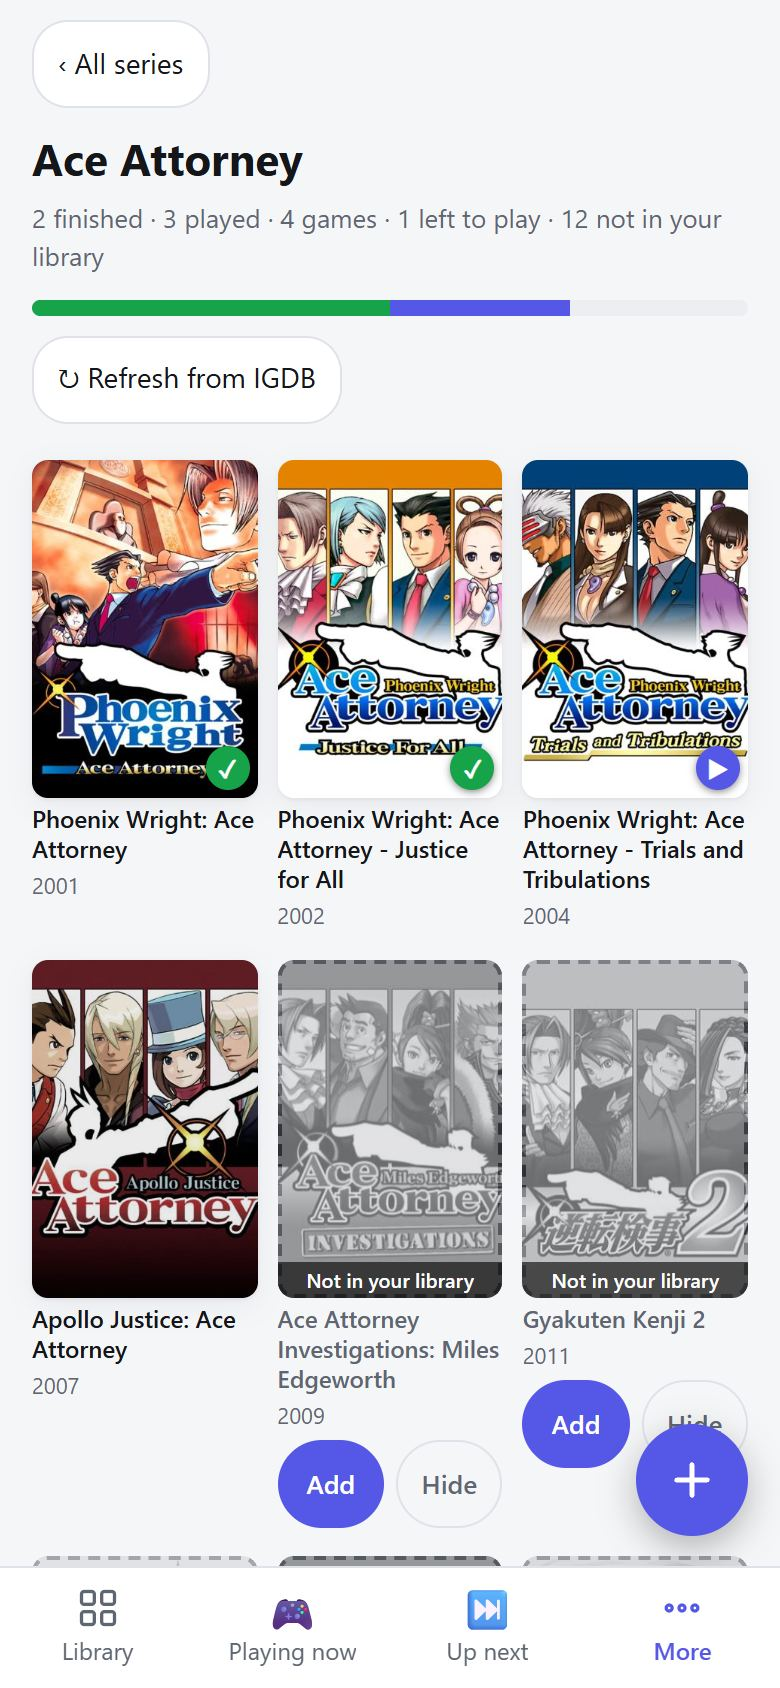
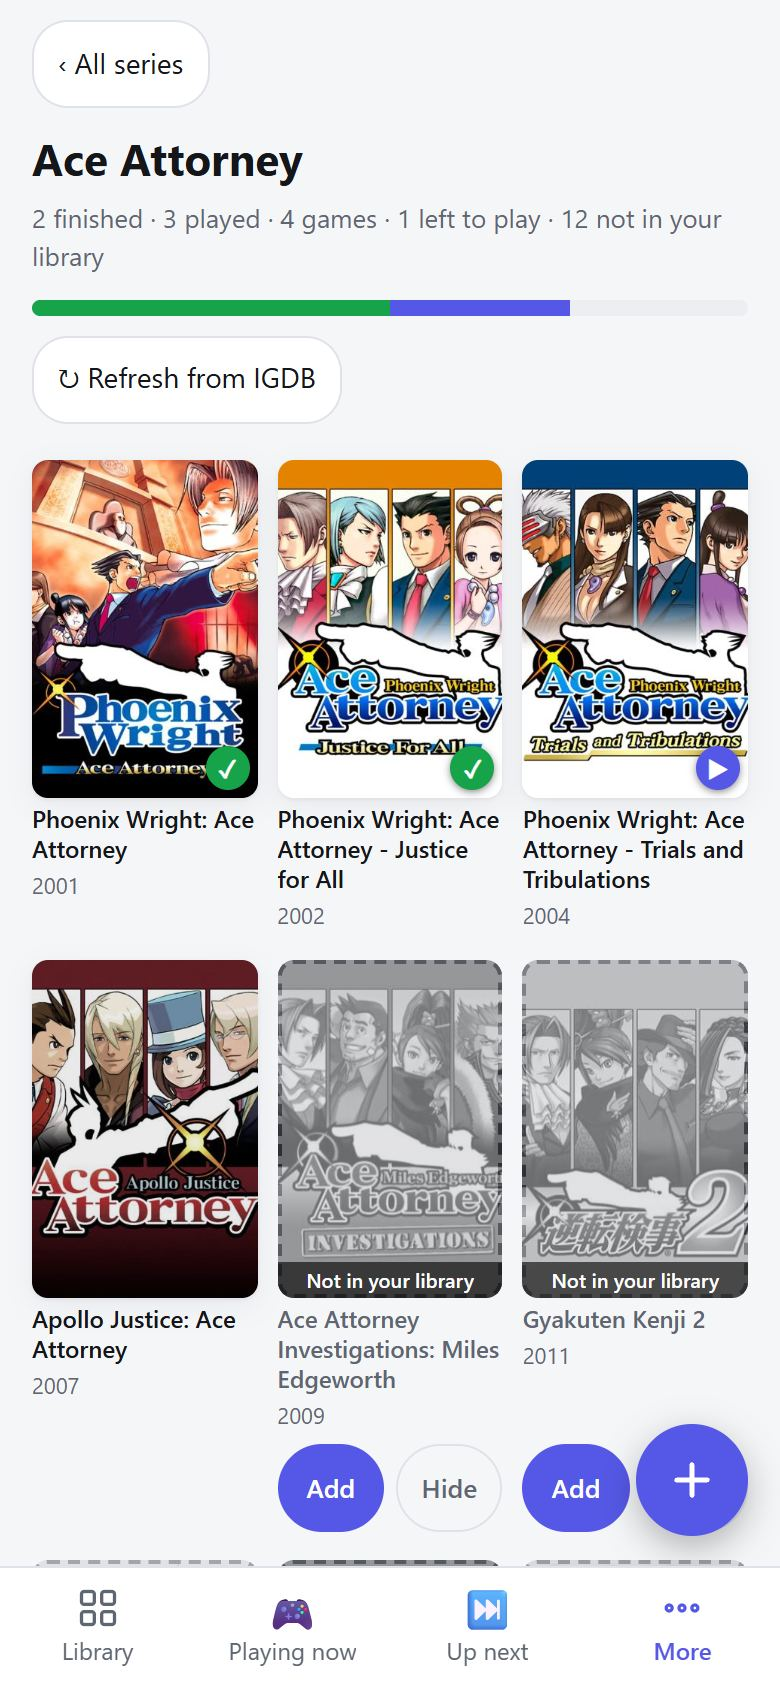
Series page: fix posters, fan and shelf layout
Portrait poster or whole (letterboxed) wide cover instead of a crop, a fan that fits the tile for 1-4 posters and prefers real posters, tighter tiles, Add/Hide pinned to the cell bottom, room for the + button. sw.js v49.

diff --git a/web/static/styles.css b/web/static/styles.css
@@ -567,7 +567,7 @@ table.wait .num { text-align: right; font-variant-numeric: tabular-nums; }
 .oldest small { color: var(--muted); font-size: 12px; }
 .sr-only { position: absolute; width: 1px; height: 1px; overflow: hidden; clip: rect(0 0 0 0); white-space: nowrap; }
 /* ---- series page: tiles with a fan of posters, and a series opened as a poster shelf ---- */
-.series-page { max-width: 1100px; }
+.series-page { max-width: 1100px; padding-bottom: calc(96px + env(safe-area-inset-bottom)); } /* clear of the + button */
 .stitle { font-weight: 600; overflow-wrap: anywhere; }
 .sbar { display: flex; height: 8px; border-radius: 4px; background: var(--surface-2); overflow: hidden; }
 .sbar .fin { background: #16a34a; }
@@ -575,15 +575,21 @@ table.wait .num { text-align: right; font-variant-numeric: tabular-nums; }
 .tiles { display: grid; grid-template-columns: repeat(2, minmax(0, 1fr)); gap: 12px; }
 @media (min-width: 600px) { .tiles { grid-template-columns: repeat(3, minmax(0, 1fr)); } }
 @media (min-width: 900px) { .tiles { grid-template-columns: repeat(4, minmax(0, 1fr)); } }
-.tile { display: flex; flex-direction: column; gap: 6px; min-height: 44px; padding: 12px; color: inherit; text-decoration: none; background: var(--surface); border: 1px solid var(--border); border-radius: var(--radius); }
+.tile { display: flex; flex-direction: column; gap: 6px; min-height: 44px; padding: 8px 10px 10px; color: inherit; text-decoration: none; background: var(--surface); border: 1px solid var(--border); border-radius: var(--radius); }
 .tile:hover { border-color: var(--accent); }
-.tile small { color: var(--muted); font-size: 12px; }
-.tile .newn { color: var(--accent); font-weight: 600; }
-.fan { position: relative; display: block; height: 130px; margin-bottom: 4px; overflow: hidden; }
-.fan .pst { position: absolute; left: 50%; bottom: 0; width: 66px; margin-left: -33px; transform-origin: 50% 130%; transform: rotate(calc(var(--i) * 12deg)) translateX(calc(var(--i) * 8px)); }
+.tile small { color: var(--muted); font-size: 12px; line-height: 1.35; }
+.tile small .newn { display: block; color: var(--accent); font-weight: 600; }
+/* The fan sits inside the tile: the poster width shrinks with the count so the spread (width + 3 steps) always fits. */
+.fan { --w: 72px; --step: 0px; position: relative; display: block; height: 116px; overflow: hidden; } /* one height for every tile, so the titles line up */
+.fan[data-n="2"] { --w: 64px; --step: 30px; }
+.fan[data-n="3"] { --w: 58px; --step: 28px; }
+.fan[data-n="4"] { --w: 52px; --step: 24px; }
+.fan .pst { position: absolute; left: 50%; bottom: calc((116px - var(--w) * 1.5) / 2); width: var(--w); margin-left: calc(var(--w) / -2); transform-origin: 50% 100%; transform: translateX(calc(var(--i) * var(--step))) rotate(calc(var(--i) * 5deg)); z-index: 1; }
 .pst { position: relative; display: block; aspect-ratio: 2 / 3; border-radius: 8px; overflow: hidden; background: var(--surface-2); box-shadow: var(--shadow); }
 .pst img, .pst .ph { width: 100%; height: 100%; object-fit: cover; display: grid; place-items: center; color: #fff; font-weight: 700; font-size: 14px; text-align: center; }
 .pst .ph b { font-size: 11px; padding: 6px; line-height: 1.2; text-shadow: 0 1px 3px rgba(0, 0, 0, .6); }
+.pst-wide { display: grid; place-items: center; background: #15151c; }
+.pst-wide img { height: auto; object-fit: contain; }
 .pst-unplayed img { filter: saturate(.6) brightness(.92); }
 .pmark { position: absolute; right: 4px; bottom: 4px; width: 22px; height: 22px; border-radius: 50%; display: grid; place-items: center; background: #16a34a; color: #fff; font: 700 12px/1 system-ui, sans-serif; font-style: normal; box-shadow: 0 1px 4px rgba(0, 0, 0, .5); }
 .pmark.pl { background: var(--accent); color: var(--accent-text); }
@@ -605,11 +611,11 @@ table.wait .num { text-align: right; font-variant-numeric: tabular-nums; }
 .si-name { font-size: 12px; font-weight: 600; line-height: 1.25; overflow: hidden; display: -webkit-box; -webkit-line-clamp: 3; -webkit-box-orient: vertical; overflow-wrap: anywhere; }
 .shelf-cell small { color: var(--muted); font-size: 11px; }
 .shelf-cell.missing .si-name { color: var(--muted); }
-.si-actions { display: flex; gap: 6px; flex-wrap: wrap; margin-top: 2px; }
+.si-actions { display: flex; gap: 6px; margin-top: auto; padding-top: 4px; } /* pinned to the cell's bottom, whatever the title's length */
 .add-chip, .hide-chip { min-height: 44px; min-width: 44px; padding: 0 12px; border-radius: 22px; border: 1px solid var(--accent); background: var(--accent); color: var(--accent-text); font-size: 13px; font-weight: 600; }
 .hide-chip { background: none; color: var(--muted); border-color: var(--border); }
 .add-chip:disabled { opacity: .6; cursor: progress; }
-.shelf-cell .add-chip, .shelf-cell .hide-chip { flex: 1; padding: 0 6px; white-space: nowrap; }
+.shelf-cell .add-chip, .shelf-cell .hide-chip { flex: 1 1 0; min-width: 0; padding: 0 4px; white-space: nowrap; }
 .hidden-list { margin-top: 18px; }
 .hidden-list summary { min-height: 44px; display: flex; align-items: center; cursor: pointer; color: var(--muted); }
 .hidden-list ul { list-style: none; margin: 0; padding: 0; }

diff --git a/web/static/js/seriesview.js b/web/static/js/seriesview.js
@@ -14,16 +14,20 @@ let onlyLeft = false;
 let onlyNew = false;
 
 const imageOf = (g) => posterURL(g) || coverURL(g);
+const hasPoster = (g) => !!posterURL(g);
 const href = (key) => `#/series/${encodeURIComponent(key)}`;
 const bar = (s) => {
   const sh = barShares(s);
   return h('span.sbar', { 'aria-hidden': 'true' }, h('i.fin', { style: `width:${sh.finished}%` }), h('i.pl', { style: `width:${sh.played}%` }));
 };
 
-/** A 2:3 picture box: the game's poster (or wide cover, centre-cropped), else a coloured placeholder with initials. */
+/** A 2:3 picture box: the game's portrait poster; else its wide cover shown whole (letterboxed, never cropped); else a coloured placeholder with initials. */
 function poster(game, extraClass = '') {
-  const url = imageOf(game);
-  return h('span.pst' + extraClass, {}, url ? lazyImg(url) : h('span.ph', { style: `background:${gradientFor(game.title)}` }, initials(game.title)));
+  const url = posterURL(game);
+  if (url) return h('span.pst' + extraClass, {}, lazyImg(url));
+  const wide = coverURL(game);
+  if (wide) return h('span.pst.pst-wide' + extraClass, {}, lazyImg(wide));
+  return h('span.pst' + extraClass, {}, h('span.ph', { style: `background:${gradientFor(game.title)}` }, initials(game.title)));
 }
 
 function stateOf(g) { return isFinished(g) ? 'finished' : isPlayed(g) ? 'played' : 'unplayed'; }
@@ -111,17 +115,17 @@ export function renderSeries(root, openKey = null) {
   // ---- the page of tiles ----
   function tile(s) {
     const extra = extraOf(index, s);
-    const games = fanGames(s, (g) => !!imageOf(g));
+    const games = fanGames(s, hasPoster, 4, (g) => !!imageOf(g));
     const n = extra.missing.length;
     return h('a.tile', { href: href(s.key), 'aria-label': `${s.name}: ${seriesSummary(s, extra)}` },
-      h('span.fan', { 'aria-hidden': 'true' }, games.map((g, i) => {
+      h('span.fan', { 'aria-hidden': 'true', 'data-n': String(games.length) }, games.map((g, i) => {
         const p = poster(g);
         p.style.setProperty('--i', String(i - (games.length - 1) / 2));
         return p;
       })),
       h('span.stitle', {}, s.name),
       bar(s),
-      h('small', {}, `${s.finished}/${s.total} finished`, n ? h('b.newn', {}, ` · +${n} not in your library`) : null));
+      h('small', {}, `${s.finished}/${s.total} finished`, n ? h('b.newn', {}, `+${n} not in library`) : null));
   }
 
   function refreshBar() {

diff --git a/web/static/js/series.js b/web/static/js/series.js
@@ -149,8 +149,13 @@ export function shelfItems(s, extra) {
   });
 }
 
-/** Up to `n` games whose pictures make the series' fan on its tile: the first ones in release order that have an image. */
-export function fanGames(s, hasImage, n = 4) {
+/**
+ * Up to `n` games whose pictures make the series' fan on its tile, in release order: the games with a portrait poster
+ * (`hasPoster`); when none has one, the games with any image (`hasImage`, default `hasPoster`); else the first games.
+ */
+export function fanGames(s, hasPoster, n = 4, hasImage = hasPoster) {
+  const posters = s.games.filter(hasPoster);
+  if (posters.length) return posters.slice(0, n);
   const withImg = s.games.filter(hasImage);
   return (withImg.length ? withImg : s.games).slice(0, n);
 }

diff --git a/web/static/sw.js b/web/static/sw.js
@@ -1,5 +1,5 @@
 // App shell cache + runtime caching. Bump VERSION when shell files change.
-const VERSION = 'v47';
+const VERSION = 'v49';
 
 // The app's base path: '/' at the root, '/backlog/' behind a proxy that serves it under that prefix. Every path in
 // this file is relative to it (SHELL_FILES resolve against this script's URL).

diff --git a/CHANGELOG.md b/CHANGELOG.md
@@ -36,6 +36,7 @@ All notable changes to DeltaBacklog are documented here. The format follows [Kee
 - With the Theme button set against the system theme, scrollbars and form controls now follow the app's theme.
 - Quick add maps the IGDB platform names `NSW` and `PS` the way the IGDB sync does.
 
+- **Series page layout**: a tile shows the game's portrait poster, or its wide cover whole (letterboxed) instead of cropping it; the poster fan fits inside the tile for 1 to 4 posters and prefers real posters; tiles are tighter ("+N not in library" on its own line); on a series' shelf the Add/Hide buttons sit at the bottom of every cell, and the page leaves room for the + button.
 ### Changed
 - The repository is now a public showcase, not a community project: README status note and "How this was built" section, CONTRIBUTING explains that contributions are not accepted, and the code of conduct, issue forms and pull request template were removed. Dependabot runs monthly with grouped updates.
 - Deploys are stamped with a version from `git describe`; idle connections are closed after 2 minutes; CI fails on unformatted Go code.
